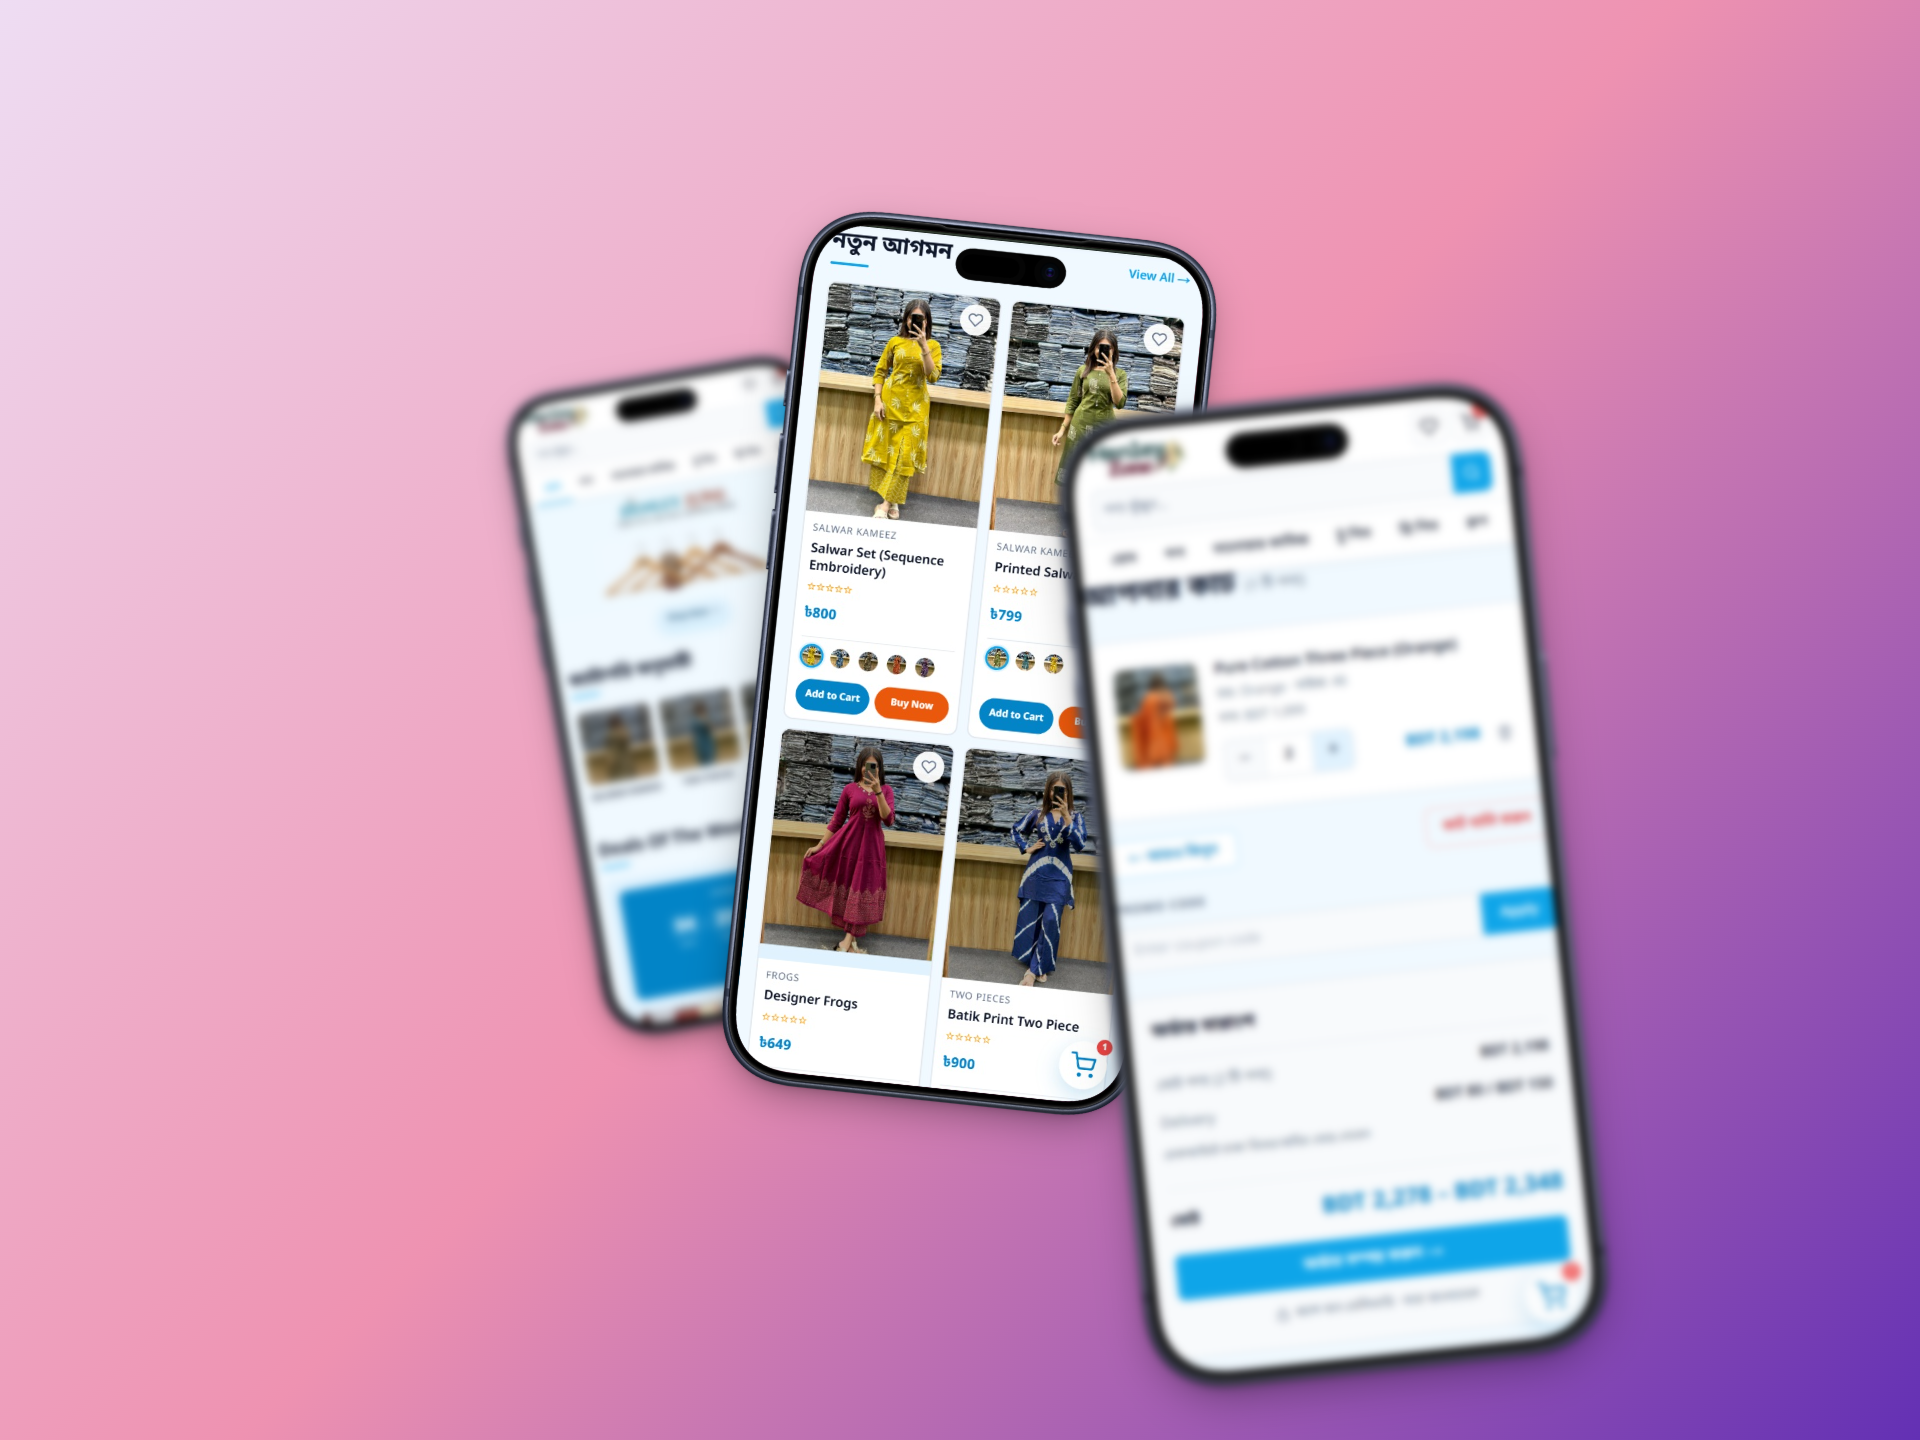
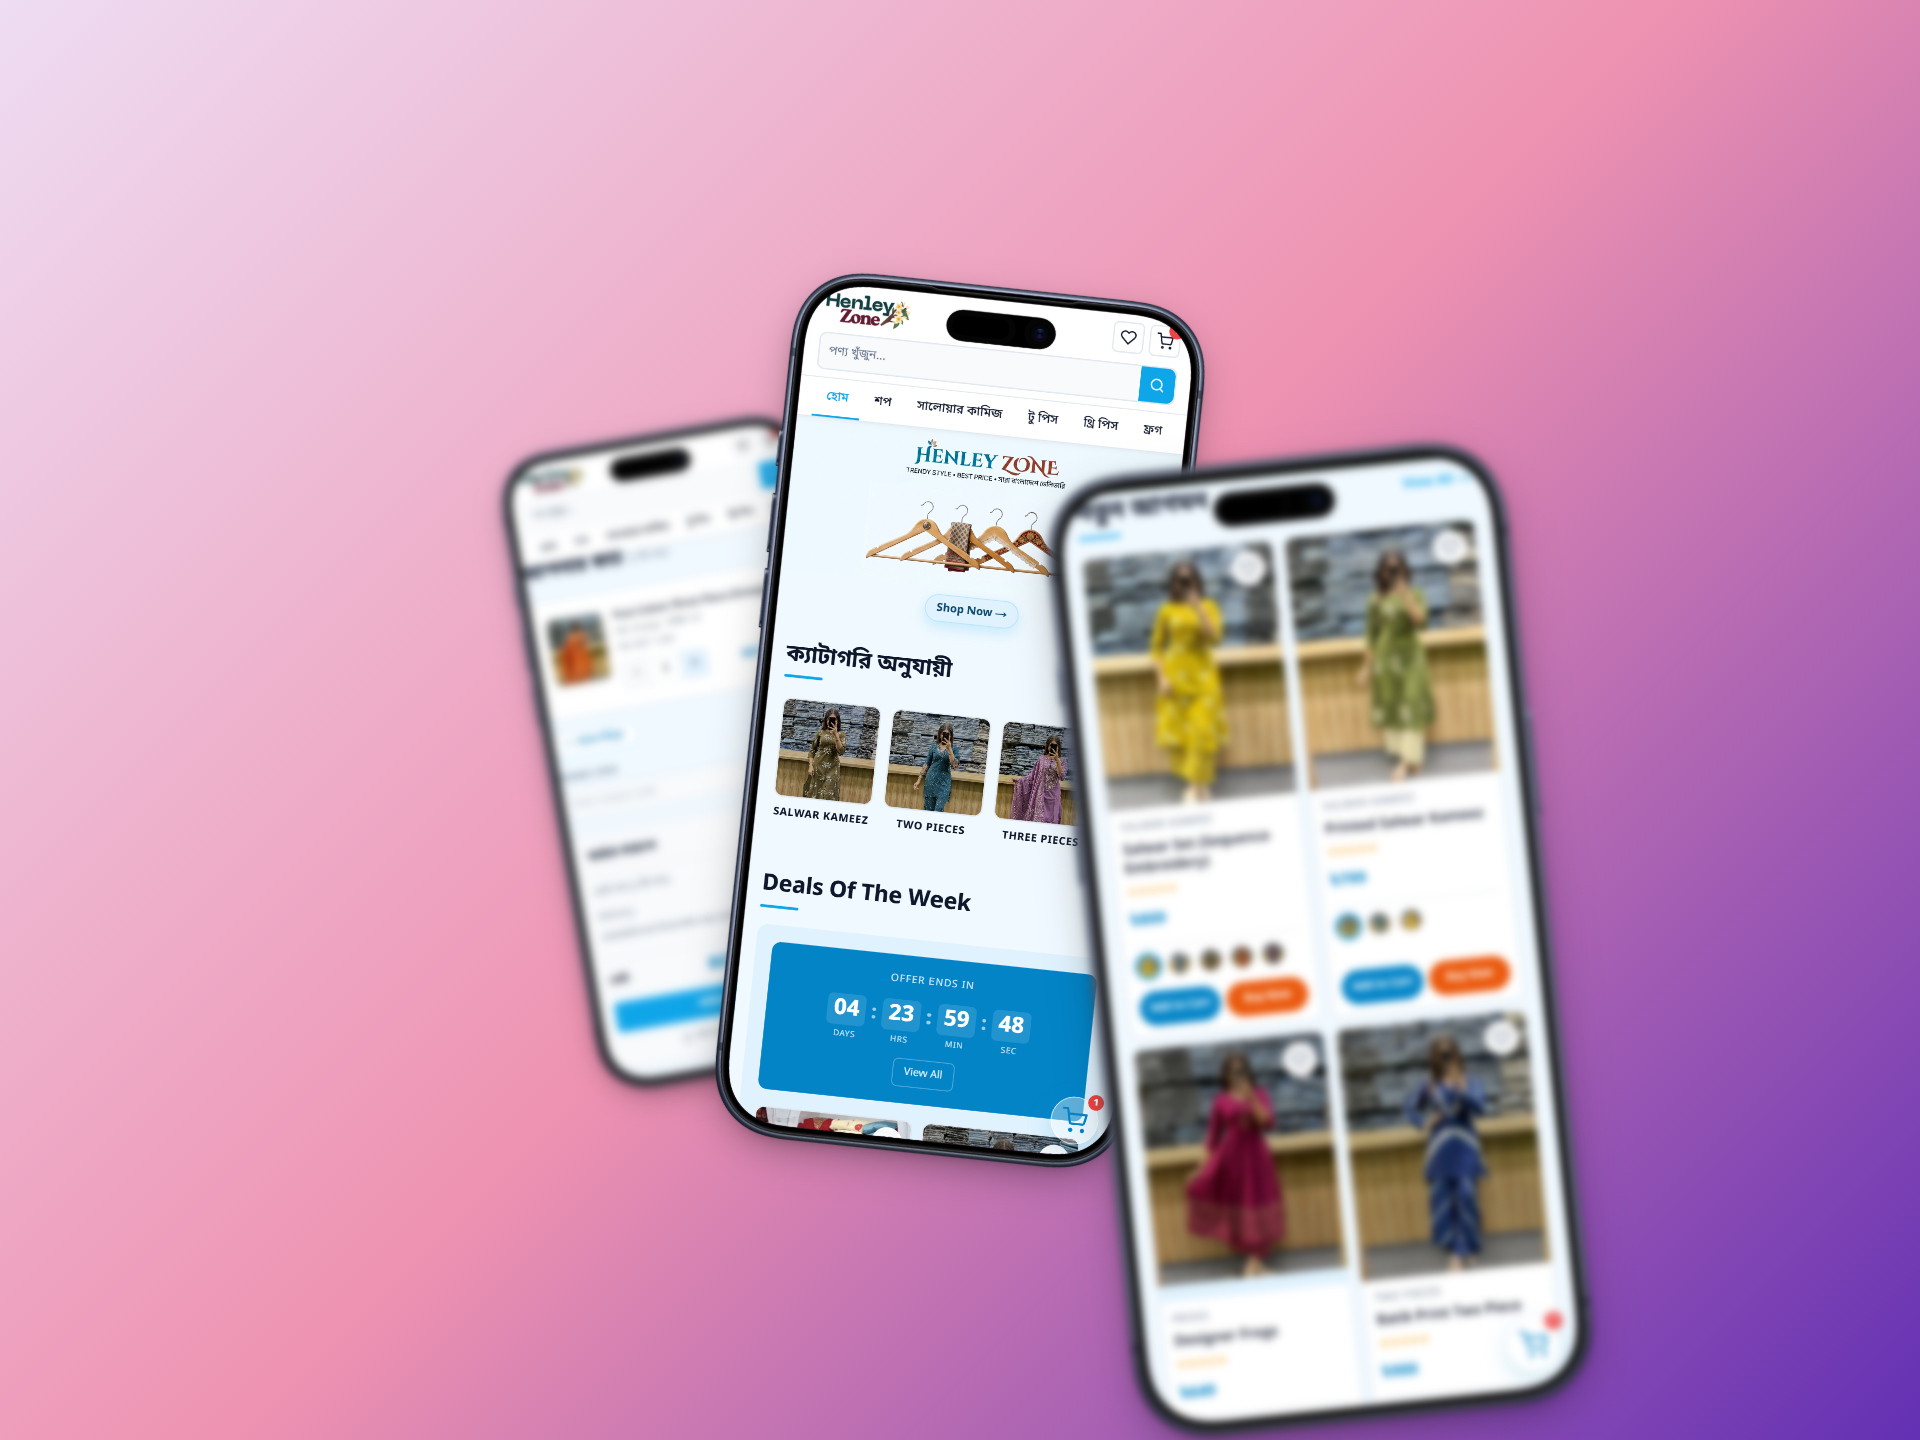
fix(mockup): switch to henley-mockup-1.png for home page and work page cards

Changed region(s): [[0.25, 0.125, 0.8438, 1.0]]

diff --git a/app/page.tsx b/app/page.tsx
@@ -179,7 +179,7 @@ export default function Home() {
                   style={{ bottom: '2%', left: '50%', transform: 'translateX(-50%) rotate(-1deg)', zIndex: 20 }}
                 >
                   <Image
-                    src="/henley-mockup-v2.png"
+                    src="/henley-mockup-1.png"
                     alt="Henley Zone e-commerce preview"
                     width={600}
                     height={400}
@@ -236,7 +236,7 @@ export default function Home() {
                 style={{ bottom: '2%', left: '50%', transform: 'translateX(-50%) rotate(-1deg)', zIndex: 3 }}
               >
                 <Image
-                  src="/henley-mockup-v2.png"
+                  src="/henley-mockup-1.png"
                   alt="Henley Zone e-commerce preview"
                   width={600}
                   height={400}

diff --git a/app/work/page.tsx b/app/work/page.tsx
@@ -35,7 +35,7 @@ export default function Work() {
             <div className="relative w-full aspect-[16/10] overflow-hidden bg-gray-50">
               <Image
                 className="w-full h-full object-cover transition-all duration-500 absolute inset-0 z-10 group-hover:opacity-0 group-hover:scale-[1.03]"
-                src="/henley-mockup-v2.png"
+                src="/henley-mockup-1.png"
                 alt="Preview of Henley Zone e-commerce website"
                 width={800}
                 height={500}